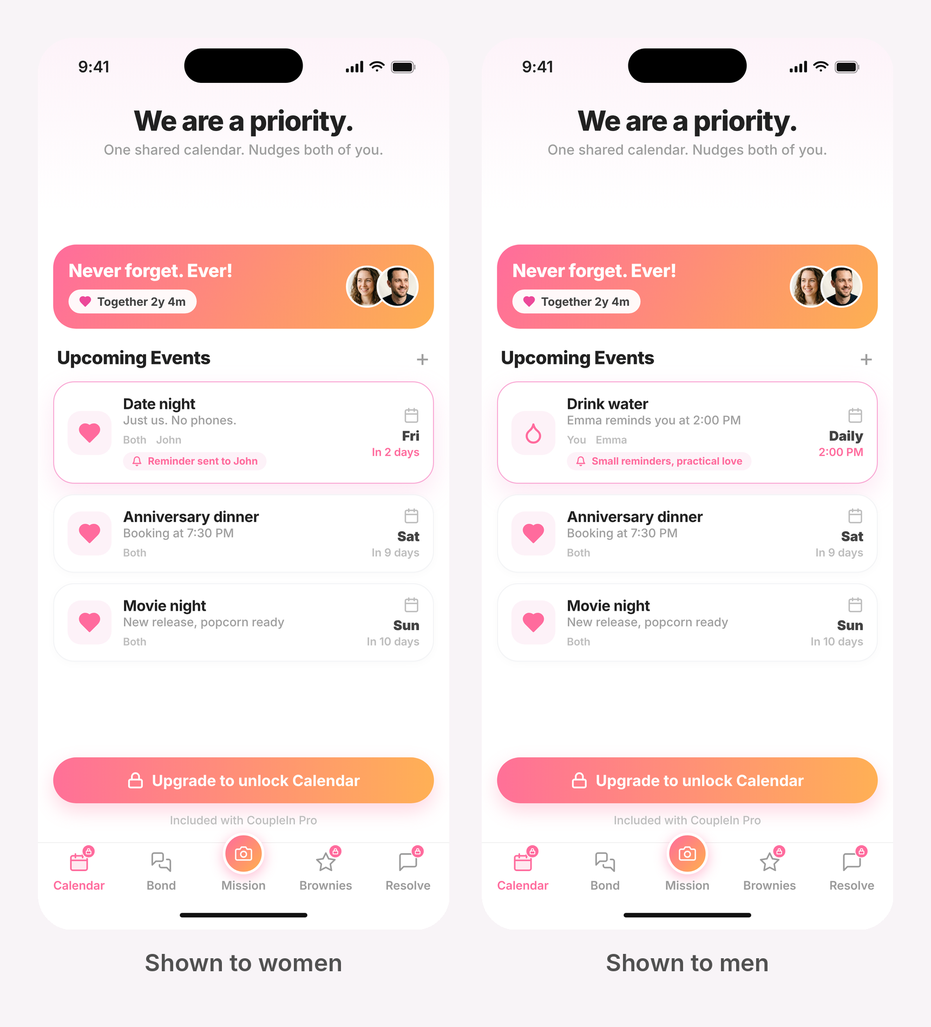
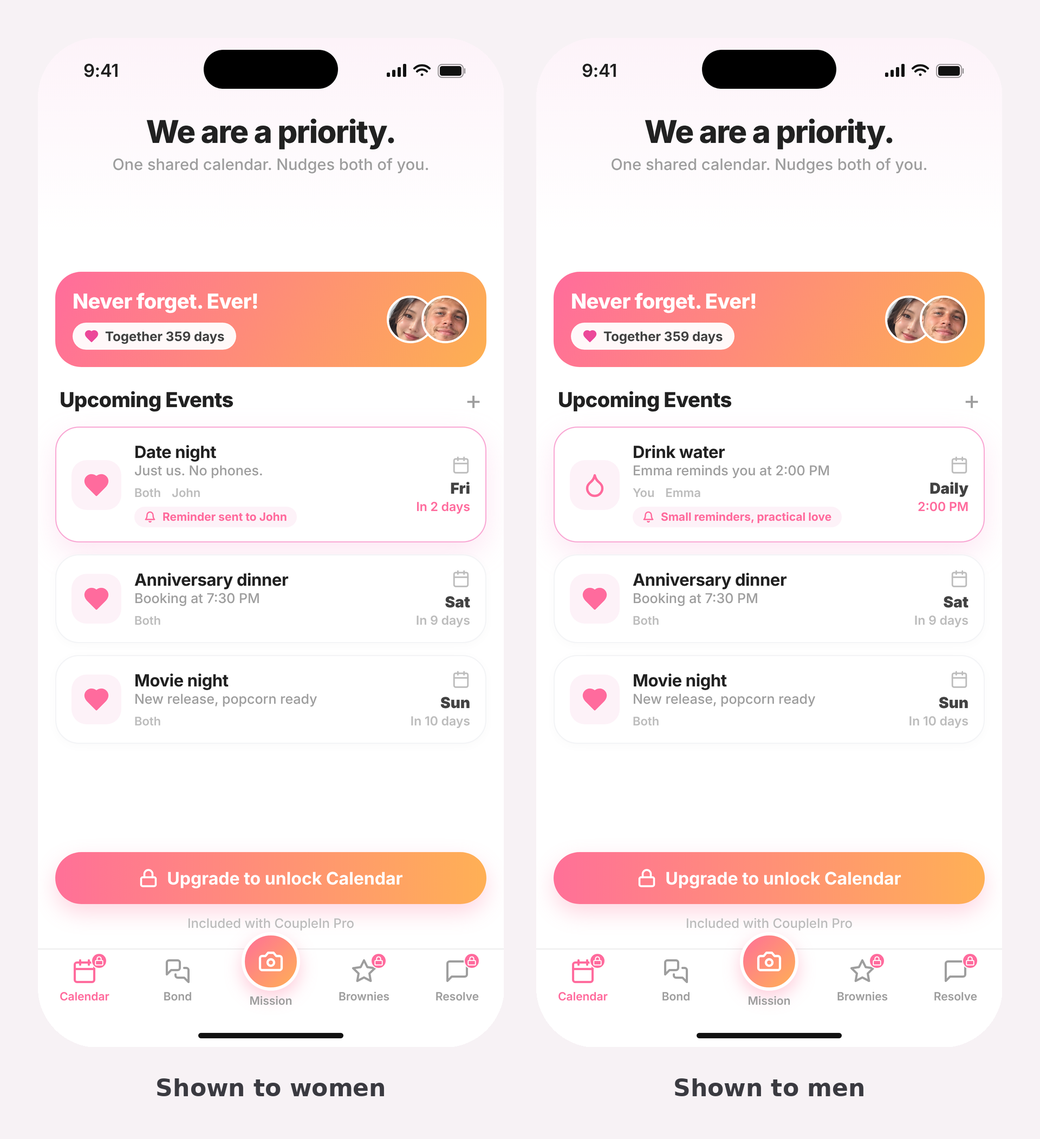
Animated reveal (3-2-1 frames + GIF), watermark is the centre pill (N Days of Us for Pro), twice-daily Mission nudges, consistent faces and tab bar across placeholders and Bond
Claude-Session: https://claude.ai/code/session_01437rANtd5MAYdKDkxZsNAs

diff --git a/final-plan/bond-design/Ask.dc.html b/final-plan/bond-design/Ask.dc.html
@@ -79,11 +79,11 @@ a{color:#E0507F}a:hover{color:#B83A66}
 </div>
 
 <div style="position: absolute; left: 0; right: 0; bottom: 0; height: 86px; background: #FFFFFF; border-top: 1px solid #F0F0F2; display: flex; justify-content: space-around; padding: 8px 4px 0 4px; box-sizing: border-box">
-<button style="width: 64px; height: 50px; border: none; background: none; display: flex; flex-direction: column; align-items: center; gap: 4px; font-size: 11px; font-family: inherit; position: relative; padding: 0; color: #8E8E93; font-weight: 500"><svg width="26" height="26" viewBox="0 0 24 24" fill="none" stroke="currentColor" stroke-width="1.7" stroke-linecap="round" stroke-linejoin="round" aria-hidden="true"><rect x="3" y="5" width="18" height="16" rx="2"></rect><path d="M16 3v4M8 3v4M3 10h18"></path></svg><span style="position: absolute; top: -3px; right: 6px; font-size: 8px; font-weight: 800; letter-spacing: 0.3px; color: #FFFFFF; background: #FFB04C; padding: 1px 4px; border-radius: 6px">PRO</span>Calendar</button>
+<button style="width: 64px; height: 50px; border: none; background: none; display: flex; flex-direction: column; align-items: center; gap: 4px; font-size: 11px; font-family: inherit; position: relative; padding: 0; color: #8E8E93; font-weight: 500"><svg width="26" height="26" viewBox="0 0 24 24" fill="none" stroke="currentColor" stroke-width="1.7" stroke-linecap="round" stroke-linejoin="round" aria-hidden="true"><rect x="3" y="5" width="18" height="16" rx="2"></rect><path d="M16 3v4M8 3v4M3 10h18"></path></svg><span style="position: absolute; top: -4px; right: 12px; width: 15px; height: 15px; border-radius: 8px; background: #FF6B9D; border: 1.5px solid #fff; display: flex; align-items: center; justify-content: center"><svg width="9" height="9" viewBox="0 0 24 24" fill="none" stroke="#fff" stroke-width="2.8" stroke-linecap="round" stroke-linejoin="round"><rect x="3" y="11" width="18" height="11" rx="2"/><path d="M7 11V7a5 5 0 0 1 10 0v4"/></svg></span>Calendar</button>
 <button aria-current="page" style="width: 64px; height: 50px; border: none; background: none; display: flex; flex-direction: column; align-items: center; gap: 4px; font-size: 11px; font-family: inherit; position: relative; padding: 0; color: #E0507F; font-weight: 600"><svg width="26" height="26" viewBox="0 0 24 24" fill="#FF6B9D" stroke="#FF6B9D" stroke-width="1.7" stroke-linecap="round" stroke-linejoin="round" aria-hidden="true"><path d="M14 9a2 2 0 0 1-2 2H6l-4 4V4a2 2 0 0 1 2-2h8a2 2 0 0 1 2 2z"></path><path d="M18 9h2a2 2 0 0 1 2 2v11l-4-4h-6a2 2 0 0 1-2-2v-1" fill="none"></path></svg>Bond</button>
 <div style="width: 64px; height: 50px; display: flex; flex-direction: column; align-items: center; position: relative"><div style="position: absolute; top: -34px; width: 62px; height: 62px; border-radius: 31px; background: linear-gradient(135deg, #FF6B9D, #FFB04C); border: 4px solid #FFFFFF; box-shadow: 0 6px 16px rgba(255,107,157,0.35); display: flex; align-items: center; justify-content: center"><svg width="28" height="28" viewBox="0 0 24 24" fill="none" stroke="#FFFFFF" stroke-width="1.9" stroke-linecap="round" stroke-linejoin="round" aria-hidden="true"><path d="M23 19a2 2 0 0 1-2 2H3a2 2 0 0 1-2-2V8a2 2 0 0 1 2-2h4l2-3h6l2 3h4a2 2 0 0 1 2 2z"></path><circle cx="12" cy="13" r="4"></circle></svg></div><span style="position: absolute; top: 32px; font-size: 11px; font-weight: 500; color: #8E8E93">Mission</span></div>
-<button style="width: 64px; height: 50px; border: none; background: none; display: flex; flex-direction: column; align-items: center; gap: 4px; font-size: 11px; font-family: inherit; position: relative; padding: 0; color: #8E8E93; font-weight: 500"><svg width="26" height="26" viewBox="0 0 24 24" fill="none" stroke="currentColor" stroke-width="1.7" stroke-linecap="round" stroke-linejoin="round" aria-hidden="true"><polygon points="12 2 15.09 8.26 22 9.27 17 14.14 18.18 21.02 12 17.77 5.82 21.02 7 14.14 2 9.27 8.91 8.26 12 2"></polygon></svg><span style="position: absolute; top: -3px; right: 6px; font-size: 8px; font-weight: 800; letter-spacing: 0.3px; color: #FFFFFF; background: #FFB04C; padding: 1px 4px; border-radius: 6px">PRO</span>Brownies</button>
-<button style="width: 64px; height: 50px; border: none; background: none; display: flex; flex-direction: column; align-items: center; gap: 4px; font-size: 11px; font-family: inherit; position: relative; padding: 0; color: #8E8E93; font-weight: 500"><svg width="26" height="26" viewBox="0 0 24 24" fill="none" stroke="currentColor" stroke-width="1.7" stroke-linecap="round" stroke-linejoin="round" aria-hidden="true"><path d="M21 15a2 2 0 0 1-2 2H7l-4 4V5a2 2 0 0 1 2-2h14a2 2 0 0 1 2 2z"></path></svg><span style="position: absolute; top: -3px; right: 6px; font-size: 8px; font-weight: 800; letter-spacing: 0.3px; color: #FFFFFF; background: #FFB04C; padding: 1px 4px; border-radius: 6px">PRO</span>Resolve</button>
+<button style="width: 64px; height: 50px; border: none; background: none; display: flex; flex-direction: column; align-items: center; gap: 4px; font-size: 11px; font-family: inherit; position: relative; padding: 0; color: #8E8E93; font-weight: 500"><svg width="26" height="26" viewBox="0 0 24 24" fill="none" stroke="currentColor" stroke-width="1.7" stroke-linecap="round" stroke-linejoin="round" aria-hidden="true"><polygon points="12 2 15.09 8.26 22 9.27 17 14.14 18.18 21.02 12 17.77 5.82 21.02 7 14.14 2 9.27 8.91 8.26 12 2"></polygon></svg><span style="position: absolute; top: -4px; right: 12px; width: 15px; height: 15px; border-radius: 8px; background: #FF6B9D; border: 1.5px solid #fff; display: flex; align-items: center; justify-content: center"><svg width="9" height="9" viewBox="0 0 24 24" fill="none" stroke="#fff" stroke-width="2.8" stroke-linecap="round" stroke-linejoin="round"><rect x="3" y="11" width="18" height="11" rx="2"/><path d="M7 11V7a5 5 0 0 1 10 0v4"/></svg></span>Brownies</button>
+<button style="width: 64px; height: 50px; border: none; background: none; display: flex; flex-direction: column; align-items: center; gap: 4px; font-size: 11px; font-family: inherit; position: relative; padding: 0; color: #8E8E93; font-weight: 500"><svg width="26" height="26" viewBox="0 0 24 24" fill="none" stroke="currentColor" stroke-width="1.7" stroke-linecap="round" stroke-linejoin="round" aria-hidden="true"><path d="M21 15a2 2 0 0 1-2 2H7l-4 4V5a2 2 0 0 1 2-2h14a2 2 0 0 1 2 2z"></path></svg><span style="position: absolute; top: -4px; right: 12px; width: 15px; height: 15px; border-radius: 8px; background: #FF6B9D; border: 1.5px solid #fff; display: flex; align-items: center; justify-content: center"><svg width="9" height="9" viewBox="0 0 24 24" fill="none" stroke="#fff" stroke-width="2.8" stroke-linecap="round" stroke-linejoin="round"><rect x="3" y="11" width="18" height="11" rx="2"/><path d="M7 11V7a5 5 0 0 1 10 0v4"/></svg></span>Resolve</button>
 </div>
 <div style="position: absolute; bottom: 8px; left: 50%; margin-left: -67px; width: 134px; height: 5px; border-radius: 3px; background: #000"></div>
 

diff --git a/final-plan/bond-design/Main.dc.html b/final-plan/bond-design/Main.dc.html
@@ -79,11 +79,11 @@ a{color:#E0507F}a:hover{color:#B83A66}
 </div>
 
 <div style="position: absolute; left: 0; right: 0; bottom: 0; height: 86px; background: #FFFFFF; border-top: 1px solid #F0F0F2; display: flex; justify-content: space-around; padding: 8px 4px 0 4px; box-sizing: border-box">
-<button style="width: 64px; height: 50px; border: none; background: none; display: flex; flex-direction: column; align-items: center; gap: 4px; font-size: 11px; font-family: inherit; position: relative; padding: 0; color: #8E8E93; font-weight: 500"><svg width="26" height="26" viewBox="0 0 24 24" fill="none" stroke="currentColor" stroke-width="1.7" stroke-linecap="round" stroke-linejoin="round" aria-hidden="true"><rect x="3" y="5" width="18" height="16" rx="2"></rect><path d="M16 3v4M8 3v4M3 10h18"></path></svg><span style="position: absolute; top: -3px; right: 6px; font-size: 8px; font-weight: 800; letter-spacing: 0.3px; color: #FFFFFF; background: #FFB04C; padding: 1px 4px; border-radius: 6px">PRO</span>Calendar</button>
+<button style="width: 64px; height: 50px; border: none; background: none; display: flex; flex-direction: column; align-items: center; gap: 4px; font-size: 11px; font-family: inherit; position: relative; padding: 0; color: #8E8E93; font-weight: 500"><svg width="26" height="26" viewBox="0 0 24 24" fill="none" stroke="currentColor" stroke-width="1.7" stroke-linecap="round" stroke-linejoin="round" aria-hidden="true"><rect x="3" y="5" width="18" height="16" rx="2"></rect><path d="M16 3v4M8 3v4M3 10h18"></path></svg><span style="position: absolute; top: -4px; right: 12px; width: 15px; height: 15px; border-radius: 8px; background: #FF6B9D; border: 1.5px solid #fff; display: flex; align-items: center; justify-content: center"><svg width="9" height="9" viewBox="0 0 24 24" fill="none" stroke="#fff" stroke-width="2.8" stroke-linecap="round" stroke-linejoin="round"><rect x="3" y="11" width="18" height="11" rx="2"/><path d="M7 11V7a5 5 0 0 1 10 0v4"/></svg></span>Calendar</button>
 <button aria-current="page" style="width: 64px; height: 50px; border: none; background: none; display: flex; flex-direction: column; align-items: center; gap: 4px; font-size: 11px; font-family: inherit; position: relative; padding: 0; color: #E0507F; font-weight: 600"><svg width="26" height="26" viewBox="0 0 24 24" fill="#FF6B9D" stroke="#FF6B9D" stroke-width="1.7" stroke-linecap="round" stroke-linejoin="round" aria-hidden="true"><path d="M14 9a2 2 0 0 1-2 2H6l-4 4V4a2 2 0 0 1 2-2h8a2 2 0 0 1 2 2z"></path><path d="M18 9h2a2 2 0 0 1 2 2v11l-4-4h-6a2 2 0 0 1-2-2v-1" fill="none"></path></svg>Bond</button>
 <div style="width: 64px; height: 50px; display: flex; flex-direction: column; align-items: center; position: relative"><div style="position: absolute; top: -34px; width: 62px; height: 62px; border-radius: 31px; background: linear-gradient(135deg, #FF6B9D, #FFB04C); border: 4px solid #FFFFFF; box-shadow: 0 6px 16px rgba(255,107,157,0.35); display: flex; align-items: center; justify-content: center"><svg width="28" height="28" viewBox="0 0 24 24" fill="none" stroke="#FFFFFF" stroke-width="1.9" stroke-linecap="round" stroke-linejoin="round" aria-hidden="true"><path d="M23 19a2 2 0 0 1-2 2H3a2 2 0 0 1-2-2V8a2 2 0 0 1 2-2h4l2-3h6l2 3h4a2 2 0 0 1 2 2z"></path><circle cx="12" cy="13" r="4"></circle></svg></div><span style="position: absolute; top: 32px; font-size: 11px; font-weight: 500; color: #8E8E93">Mission</span></div>
-<button style="width: 64px; height: 50px; border: none; background: none; display: flex; flex-direction: column; align-items: center; gap: 4px; font-size: 11px; font-family: inherit; position: relative; padding: 0; color: #8E8E93; font-weight: 500"><svg width="26" height="26" viewBox="0 0 24 24" fill="none" stroke="currentColor" stroke-width="1.7" stroke-linecap="round" stroke-linejoin="round" aria-hidden="true"><polygon points="12 2 15.09 8.26 22 9.27 17 14.14 18.18 21.02 12 17.77 5.82 21.02 7 14.14 2 9.27 8.91 8.26 12 2"></polygon></svg><span style="position: absolute; top: -3px; right: 6px; font-size: 8px; font-weight: 800; letter-spacing: 0.3px; color: #FFFFFF; background: #FFB04C; padding: 1px 4px; border-radius: 6px">PRO</span>Brownies</button>
-<button style="width: 64px; height: 50px; border: none; background: none; display: flex; flex-direction: column; align-items: center; gap: 4px; font-size: 11px; font-family: inherit; position: relative; padding: 0; color: #8E8E93; font-weight: 500"><svg width="26" height="26" viewBox="0 0 24 24" fill="none" stroke="currentColor" stroke-width="1.7" stroke-linecap="round" stroke-linejoin="round" aria-hidden="true"><path d="M21 15a2 2 0 0 1-2 2H7l-4 4V5a2 2 0 0 1 2-2h14a2 2 0 0 1 2 2z"></path></svg><span style="position: absolute; top: -3px; right: 6px; font-size: 8px; font-weight: 800; letter-spacing: 0.3px; color: #FFFFFF; background: #FFB04C; padding: 1px 4px; border-radius: 6px">PRO</span>Resolve</button>
+<button style="width: 64px; height: 50px; border: none; background: none; display: flex; flex-direction: column; align-items: center; gap: 4px; font-size: 11px; font-family: inherit; position: relative; padding: 0; color: #8E8E93; font-weight: 500"><svg width="26" height="26" viewBox="0 0 24 24" fill="none" stroke="currentColor" stroke-width="1.7" stroke-linecap="round" stroke-linejoin="round" aria-hidden="true"><polygon points="12 2 15.09 8.26 22 9.27 17 14.14 18.18 21.02 12 17.77 5.82 21.02 7 14.14 2 9.27 8.91 8.26 12 2"></polygon></svg><span style="position: absolute; top: -4px; right: 12px; width: 15px; height: 15px; border-radius: 8px; background: #FF6B9D; border: 1.5px solid #fff; display: flex; align-items: center; justify-content: center"><svg width="9" height="9" viewBox="0 0 24 24" fill="none" stroke="#fff" stroke-width="2.8" stroke-linecap="round" stroke-linejoin="round"><rect x="3" y="11" width="18" height="11" rx="2"/><path d="M7 11V7a5 5 0 0 1 10 0v4"/></svg></span>Brownies</button>
+<button style="width: 64px; height: 50px; border: none; background: none; display: flex; flex-direction: column; align-items: center; gap: 4px; font-size: 11px; font-family: inherit; position: relative; padding: 0; color: #8E8E93; font-weight: 500"><svg width="26" height="26" viewBox="0 0 24 24" fill="none" stroke="currentColor" stroke-width="1.7" stroke-linecap="round" stroke-linejoin="round" aria-hidden="true"><path d="M21 15a2 2 0 0 1-2 2H7l-4 4V5a2 2 0 0 1 2-2h14a2 2 0 0 1 2 2z"></path></svg><span style="position: absolute; top: -4px; right: 12px; width: 15px; height: 15px; border-radius: 8px; background: #FF6B9D; border: 1.5px solid #fff; display: flex; align-items: center; justify-content: center"><svg width="9" height="9" viewBox="0 0 24 24" fill="none" stroke="#fff" stroke-width="2.8" stroke-linecap="round" stroke-linejoin="round"><rect x="3" y="11" width="18" height="11" rx="2"/><path d="M7 11V7a5 5 0 0 1 10 0v4"/></svg></span>Resolve</button>
 </div>
 <div style="position: absolute; bottom: 8px; left: 50%; margin-left: -67px; width: 134px; height: 5px; border-radius: 3px; background: #000"></div>
 

diff --git a/final-plan/bond-design/Reveal.dc.html b/final-plan/bond-design/Reveal.dc.html
@@ -85,11 +85,11 @@ a{color:#E0507F}a:hover{color:#B83A66}
 </div>
 
 <div style="position: absolute; left: 0; right: 0; bottom: 0; height: 86px; background: #FFFFFF; border-top: 1px solid #F0F0F2; display: flex; justify-content: space-around; padding: 8px 4px 0 4px; box-sizing: border-box">
-<button style="width: 64px; height: 50px; border: none; background: none; display: flex; flex-direction: column; align-items: center; gap: 4px; font-size: 11px; font-family: inherit; position: relative; padding: 0; color: #8E8E93; font-weight: 500"><svg width="26" height="26" viewBox="0 0 24 24" fill="none" stroke="currentColor" stroke-width="1.7" stroke-linecap="round" stroke-linejoin="round" aria-hidden="true"><rect x="3" y="5" width="18" height="16" rx="2"></rect><path d="M16 3v4M8 3v4M3 10h18"></path></svg><span style="position: absolute; top: -3px; right: 6px; font-size: 8px; font-weight: 800; letter-spacing: 0.3px; color: #FFFFFF; background: #FFB04C; padding: 1px 4px; border-radius: 6px">PRO</span>Calendar</button>
+<button style="width: 64px; height: 50px; border: none; background: none; display: flex; flex-direction: column; align-items: center; gap: 4px; font-size: 11px; font-family: inherit; position: relative; padding: 0; color: #8E8E93; font-weight: 500"><svg width="26" height="26" viewBox="0 0 24 24" fill="none" stroke="currentColor" stroke-width="1.7" stroke-linecap="round" stroke-linejoin="round" aria-hidden="true"><rect x="3" y="5" width="18" height="16" rx="2"></rect><path d="M16 3v4M8 3v4M3 10h18"></path></svg><span style="position: absolute; top: -4px; right: 12px; width: 15px; height: 15px; border-radius: 8px; background: #FF6B9D; border: 1.5px solid #fff; display: flex; align-items: center; justify-content: center"><svg width="9" height="9" viewBox="0 0 24 24" fill="none" stroke="#fff" stroke-width="2.8" stroke-linecap="round" stroke-linejoin="round"><rect x="3" y="11" width="18" height="11" rx="2"/><path d="M7 11V7a5 5 0 0 1 10 0v4"/></svg></span>Calendar</button>
 <button aria-current="page" style="width: 64px; height: 50px; border: none; background: none; display: flex; flex-direction: column; align-items: center; gap: 4px; font-size: 11px; font-family: inherit; position: relative; padding: 0; color: #E0507F; font-weight: 600"><svg width="26" height="26" viewBox="0 0 24 24" fill="#FF6B9D" stroke="#FF6B9D" stroke-width="1.7" stroke-linecap="round" stroke-linejoin="round" aria-hidden="true"><path d="M14 9a2 2 0 0 1-2 2H6l-4 4V4a2 2 0 0 1 2-2h8a2 2 0 0 1 2 2z"></path><path d="M18 9h2a2 2 0 0 1 2 2v11l-4-4h-6a2 2 0 0 1-2-2v-1" fill="none"></path></svg>Bond</button>
 <div style="width: 64px; height: 50px; display: flex; flex-direction: column; align-items: center; position: relative"><div style="position: absolute; top: -34px; width: 62px; height: 62px; border-radius: 31px; background: linear-gradient(135deg, #FF6B9D, #FFB04C); border: 4px solid #FFFFFF; box-shadow: 0 6px 16px rgba(255,107,157,0.35); display: flex; align-items: center; justify-content: center"><svg width="28" height="28" viewBox="0 0 24 24" fill="none" stroke="#FFFFFF" stroke-width="1.9" stroke-linecap="round" stroke-linejoin="round" aria-hidden="true"><path d="M23 19a2 2 0 0 1-2 2H3a2 2 0 0 1-2-2V8a2 2 0 0 1 2-2h4l2-3h6l2 3h4a2 2 0 0 1 2 2z"></path><circle cx="12" cy="13" r="4"></circle></svg></div><span style="position: absolute; top: 32px; font-size: 11px; font-weight: 500; color: #8E8E93">Mission</span></div>
-<button style="width: 64px; height: 50px; border: none; background: none; display: flex; flex-direction: column; align-items: center; gap: 4px; font-size: 11px; font-family: inherit; position: relative; padding: 0; color: #8E8E93; font-weight: 500"><svg width="26" height="26" viewBox="0 0 24 24" fill="none" stroke="currentColor" stroke-width="1.7" stroke-linecap="round" stroke-linejoin="round" aria-hidden="true"><polygon points="12 2 15.09 8.26 22 9.27 17 14.14 18.18 21.02 12 17.77 5.82 21.02 7 14.14 2 9.27 8.91 8.26 12 2"></polygon></svg><span style="position: absolute; top: -3px; right: 6px; font-size: 8px; font-weight: 800; letter-spacing: 0.3px; color: #FFFFFF; background: #FFB04C; padding: 1px 4px; border-radius: 6px">PRO</span>Brownies</button>
-<button style="width: 64px; height: 50px; border: none; background: none; display: flex; flex-direction: column; align-items: center; gap: 4px; font-size: 11px; font-family: inherit; position: relative; padding: 0; color: #8E8E93; font-weight: 500"><svg width="26" height="26" viewBox="0 0 24 24" fill="none" stroke="currentColor" stroke-width="1.7" stroke-linecap="round" stroke-linejoin="round" aria-hidden="true"><path d="M21 15a2 2 0 0 1-2 2H7l-4 4V5a2 2 0 0 1 2-2h14a2 2 0 0 1 2 2z"></path></svg><span style="position: absolute; top: -3px; right: 6px; font-size: 8px; font-weight: 800; letter-spacing: 0.3px; color: #FFFFFF; background: #FFB04C; padding: 1px 4px; border-radius: 6px">PRO</span>Resolve</button>
+<button style="width: 64px; height: 50px; border: none; background: none; display: flex; flex-direction: column; align-items: center; gap: 4px; font-size: 11px; font-family: inherit; position: relative; padding: 0; color: #8E8E93; font-weight: 500"><svg width="26" height="26" viewBox="0 0 24 24" fill="none" stroke="currentColor" stroke-width="1.7" stroke-linecap="round" stroke-linejoin="round" aria-hidden="true"><polygon points="12 2 15.09 8.26 22 9.27 17 14.14 18.18 21.02 12 17.77 5.82 21.02 7 14.14 2 9.27 8.91 8.26 12 2"></polygon></svg><span style="position: absolute; top: -4px; right: 12px; width: 15px; height: 15px; border-radius: 8px; background: #FF6B9D; border: 1.5px solid #fff; display: flex; align-items: center; justify-content: center"><svg width="9" height="9" viewBox="0 0 24 24" fill="none" stroke="#fff" stroke-width="2.8" stroke-linecap="round" stroke-linejoin="round"><rect x="3" y="11" width="18" height="11" rx="2"/><path d="M7 11V7a5 5 0 0 1 10 0v4"/></svg></span>Brownies</button>
+<button style="width: 64px; height: 50px; border: none; background: none; display: flex; flex-direction: column; align-items: center; gap: 4px; font-size: 11px; font-family: inherit; position: relative; padding: 0; color: #8E8E93; font-weight: 500"><svg width="26" height="26" viewBox="0 0 24 24" fill="none" stroke="currentColor" stroke-width="1.7" stroke-linecap="round" stroke-linejoin="round" aria-hidden="true"><path d="M21 15a2 2 0 0 1-2 2H7l-4 4V5a2 2 0 0 1 2-2h14a2 2 0 0 1 2 2z"></path></svg><span style="position: absolute; top: -4px; right: 12px; width: 15px; height: 15px; border-radius: 8px; background: #FF6B9D; border: 1.5px solid #fff; display: flex; align-items: center; justify-content: center"><svg width="9" height="9" viewBox="0 0 24 24" fill="none" stroke="#fff" stroke-width="2.8" stroke-linecap="round" stroke-linejoin="round"><rect x="3" y="11" width="18" height="11" rx="2"/><path d="M7 11V7a5 5 0 0 1 10 0v4"/></svg></span>Resolve</button>
 </div>
 <div style="position: absolute; bottom: 8px; left: 50%; margin-left: -67px; width: 134px; height: 5px; border-radius: 3px; background: #000"></div>
 

diff --git a/final-plan/Final-Plan-Developer.md b/final-plan/Final-Plan-Developer.md
@@ -53,14 +53,14 @@ Redesign the pricing page to show all three plans, with Yearly highlighted. **Op
 
 1. **Your relationship, in one place.** Memories, plans, gestures and hard talks. One app, just for you two.
 2. **Every memory, forever.** Every card you have ever made, unlocked. Nothing ever locks again.
-3. **Post-ready cards.** No watermark. Post your cards clean.
+3. **Post-ready cards.** No CoupleIn watermark. Your cards just say “N Days of Us”.
 4. **We are a priority.** Date nights and reminders you both see. Nothing gets forgotten. (Calendar)
 5. **Speak their language.** Know exactly what makes them feel loved, then do it. (Brownies)
 6. **Calm, not chaos.** Resolve: take turns, feel heard, end the loop. Backed by psychology.
 
 Plans side by side: Weekly £5.99, **Yearly £49.99** (pre-selected, tag "BEST VALUE · SAVE 84%", "£0.96 / week"), Monthly £9.99. Button "Unlock Pro for both of us". Small print "Less than a coffee a week · Cancel anytime · Restore purchase". Rules: no unverified statistics on this screen (add real reviews and couple counts once they exist); the Week 1 video is not part of the offer for now; "2 for the price of 1" and "for both of us" depend on Pro being per couple (open item 2).
 
-![Save sheet (watermark switch, Pro) and the Pro paywall](images/save-and-paywall.png)
+![Save sheet (CoupleIn watermark switch, Pro) and the Pro paywall](images/save-and-paywall.png)
 
 **Gender at sign-up.** Asked on the name step, only to choose which placeholder is shown on the locked tabs. Options: Woman, Man, Prefer not to say (neutral version, shows either). The field is optional.
 
@@ -142,7 +142,7 @@ The promise made before any photo is taken: neither partner can see the other's 
 
 1. **Partner has not sent.** Partner half is a soft pink-to-peach gradient (never black) with the partner's profile photo in a gradient ring, "Emma hasn't sent hers yet", "Go first. She can't see yours until she sends hers." and a white "Nudge Emma" button (sends a push; limit one nudge per 3 hours).
 2. **Partner has sent.** Partner half shows her photo heavily blurred with a frosted lock: "Emma sent hers" and "Send yours to reveal it · 8:14 AM". The blur is a local placeholder; the real photo is only released by the relay after you send (section 6).
-3. **Both sent (revealed, after the 3-2-1 countdown).** Both photos clean with their captions. Top reads "Mission complete / You're both in. Next pose at 3AM." Actions sit in a white strip below the photos and never cover them: Our cards icon, Save, Who did it better?.
+3. **Both sent (revealed, after the 3-2-1 countdown).** Both photos clean with their caption + mood pills. Top reads "Mission complete / You're both in. Next pose at 3AM." Actions sit in a white strip below the photos and never cover them: Our cards icon, Save, Who did it better?.
 
 ![Mission screen: she hasn't sent, she has sent with the timer on, after the shot (mission gone, Retake / Send), both sent, and Our cards](images/mission-screens.png)
 
@@ -175,22 +175,32 @@ After the photo the timer switches itself back off, so the next photo is a norma
 
 **Camera permission denied.** Explain why and link to Settings. A gallery fallback is allowed only in this case, with a warning.
 
-**Countdown before every reveal.** Full-screen, dark or blurred background, both photos hidden behind a combined card. The word "Reveal" then "3... 2... 1...", one second per number (3 seconds total). No skip. It runs from local state with no network dependency. The combined card is rendered and cached before the countdown starts so the reveal has no spinner. If the app is closed mid-countdown, reopening lands on the reveal. If the user taps the push hours later, the countdown still plays. The countdown never shows the phrase "Who did it better?".
+**Reveal countdown (animated).** Plays as soon as both partners have sent (or when the "[Partner] just sent theirs" push is tapped). Full screen: no tab bar, no header text, no action buttons, only the X. Both photos sit in place but heavily blurred (about 34px), with the white line between them. Centred over the line: "REVEAL" in spaced capitals, a frosted-glass circle with the number, and "You both sent yours" underneath.
 
-**Reveal screen.** Both photos on one card, "Day 256 together", "Pose N", "You're both in." Two buttons: **Save card** (download to the phone) and **Who did it better?** (opens the share sheet with the card).
+1. **3, 2, 1.** One second per number. Each number pops in at 125% and settles to 100% in about 250ms, with a light haptic on each.
+2. **Reveal.** After 1 the circle fades, both photos unblur over about 0.8s, and a burst of small pink hearts flies out from the Day pill on the line.
+3. **Revealed.** The caption and mood pills, the header "Mission complete / You're both in. Next pose at 3AM." and the white action strip (Our cards, Save, Who did it better?) slide in.
+
+No skip. It runs from local state with no network dependency: both photos are already on the phone and the combined card is cached before the countdown starts, so there is no spinner. If the app is closed mid-countdown, reopening lands on the revealed screen. If the user taps the push hours later, the countdown still plays. "Who did it better?" never appears during the countdown.
+
+![Reveal countdown: 3, 2, 1, unblur with hearts, revealed](images/reveal-countdown.png)
+
+![Reveal animation (loop)](images/reveal-animation.gif)
+
+**Reveal screen.** Both photos clean, each with its caption + mood pill ("😊 Happy · Finally home. Pizza night?"), the Day pill on the line, the header "Mission complete / You're both in. Next pose at 3AM.", and the white action strip under the photos (it never covers them): Our cards, **Save** (opens the Save sheet) and **Who did it better?** (opens the Save sheet, then the share sheet).
 
 **Share card.** 1080 x 1920 (9:16) PNG, built on the phone when Save or Share is tapped, never stored. Your selfie on top, partner's below, an 18px white line between. Designed for TikTok, Reels and Stories, the number one way the app spreads:
 
 - **Safe zone.** Those apps cover the top ~12%, the bottom ~22% and the right edge from ~40% to ~78% of the frame with their buttons and captions. Nothing important goes there.
-- **Day pill.** The white "♥ CoupleIn · Day N" pill sits in the centre of the white line on every card, free and Pro. The centre is never covered by any app.
-- **Watermark (free).** "♥ coupleinapp.com" in small white text just under the Day pill. Pro users can turn it off.
+- **The watermark is the pill in the middle.** The white pill in the centre of the white line is the CoupleIn watermark: free cards say "♥ CoupleIn · Day N". When a Pro user switches the watermark off, the same pill reads "♥ N Days of Us" (for example "386 Days of Us"), with no CoupleIn branding. The centre is never covered by any app.
+- **No other branding.** No coupleinapp.com text and no other logo anywhere on the card.
 - **Caption + mood.** One pill per photo, left-aligned: top photo about 15% from the top, bottom photo just above the bottom safe line. Only shown if added.
 - **No mission on the card.** The mission only appears on the live camera and is gone once the photo is taken.
 - The camera's own overlays (X, flip, timer, the mission bar) are never part of the photo or the card.
 
-![Share card, free with watermark vs Pro without, with the TikTok / Reels / Stories covered areas in pink](images/share-card-safe-zones.png)
+![Share card: free with the CoupleIn pill, Pro with "359 Days of Us", with the TikTok / Reels / Stories covered areas in pink](images/share-card-safe-zones.png)
 
-**Save sheet.** Tapping Save opens "Save your card" ("Ready for TikTok, Reels and Stories") with a live preview of the card and one switch: **Watermark** (show coupleinapp.com on the card), on by default. The switch is **Pro**: Pro users can turn it off and the preview updates instantly; free users see it on with a PRO tag, and tapping it opens the paywall. Line under the switch: "Remove the watermark with Pro." Button: "Save to Photos". The same sheet appears before sharing from Who did it better?. The app remembers each Pro user's last choice. Shown with the paywall in section 2.
+**Save sheet.** Tapping Save opens "Save your card" ("Ready for TikTok, Reels and Stories") with two previews side by side, "Watermark on" (CoupleIn · Day N) and "Off · Pro" ("N Days of Us"), and one switch: **CoupleIn watermark**, on by default, sub-line "Off: your card says 'N Days of Us'". The switch is **Pro**: Pro users can turn it off; free users see it on with a PRO tag, and tapping it or the "Off · Pro" preview opens the paywall. Button: "Save to Photos". The same sheet appears before sharing from Who did it better?. The app remembers each Pro user's last choice. Shown with the paywall in section 2.
 
 **Week 1 video.** Promised on the first reveal screen. Generated on the phone from the first 7 completed pairs (photos are local), about 10 to 15 seconds: each pair cut to a beat with its pose name and "Day N together", ending on a title card with the date range. Delivered when the 7th pair is revealed, with a push: "Your Week 1 video is ready." Free gets it with the watermark and sees "Remove the watermark" as an upgrade. If a couple is slow, send a partial video on day 10 using the pairs that exist.
 
@@ -249,6 +259,16 @@ R2 is preferred because it charges nothing for downloads.
 | Partner has not joined after 7 days | Reminder to the inviter |
 | Photos about to lock (days 10 to 13) | "Save your cards before they lock" |
 | 7th pair revealed | "Your Week 1 video is ready" |
+
+**Daily Mission nudges (twice a day).** Every user who has not sent today's photo gets two pushes a day, so the habit sticks:
+
+| When (local, editable in Settings) | Push |
+| --- | --- |
+| Morning, 9:00 AM (or when the pose unlocks, if later) | "Today's mission: [pose] 📸" |
+| Evening, 6:00 PM, if [Partner] has already sent | "[Partner] sent theirs. Send yours to reveal it." |
+| Evening, 6:00 PM, if neither has sent | "Your mission is still open: [pose]. It takes 10 seconds." |
+
+Both stop the moment the user sends. Never more than two Mission nudges a day per user; the "[Partner] just sent theirs" and reveal pushes are separate events. Bond's daily question push (7:00 PM) is separate and never fires within an hour of a Mission nudge.
 
 **Late-connection reconciliation.** User 2 downloads without a code, goes through Flow A and sends Pose 1 alone, then later enters a valid code on the waiting screen:
 
@@ -391,3 +411,6 @@ The daily question can come from any category; "Ask another" serves from the cho
 - Share card export with the social safe zone, the Day pill and the watermark; Save sheet with the single Watermark switch (Pro).
 - Pro paywall with the 2-for-1 banner and the six-line value stack.
 - Bond (section 8): Today, Answer sheet, Reveal, Ask another, question bank, notifications.
+- Animated reveal: blurred photos, "REVEAL" 3-2-1 with pop and haptics, unblur with heart burst, then the revealed screen.
+- Two daily Mission nudges (9 AM and 6 PM local, editable), stopped as soon as the user sends.
+- Watermark = the centre pill: "CoupleIn · Day N" (free) or "N Days of Us" (Pro, watermark off).
